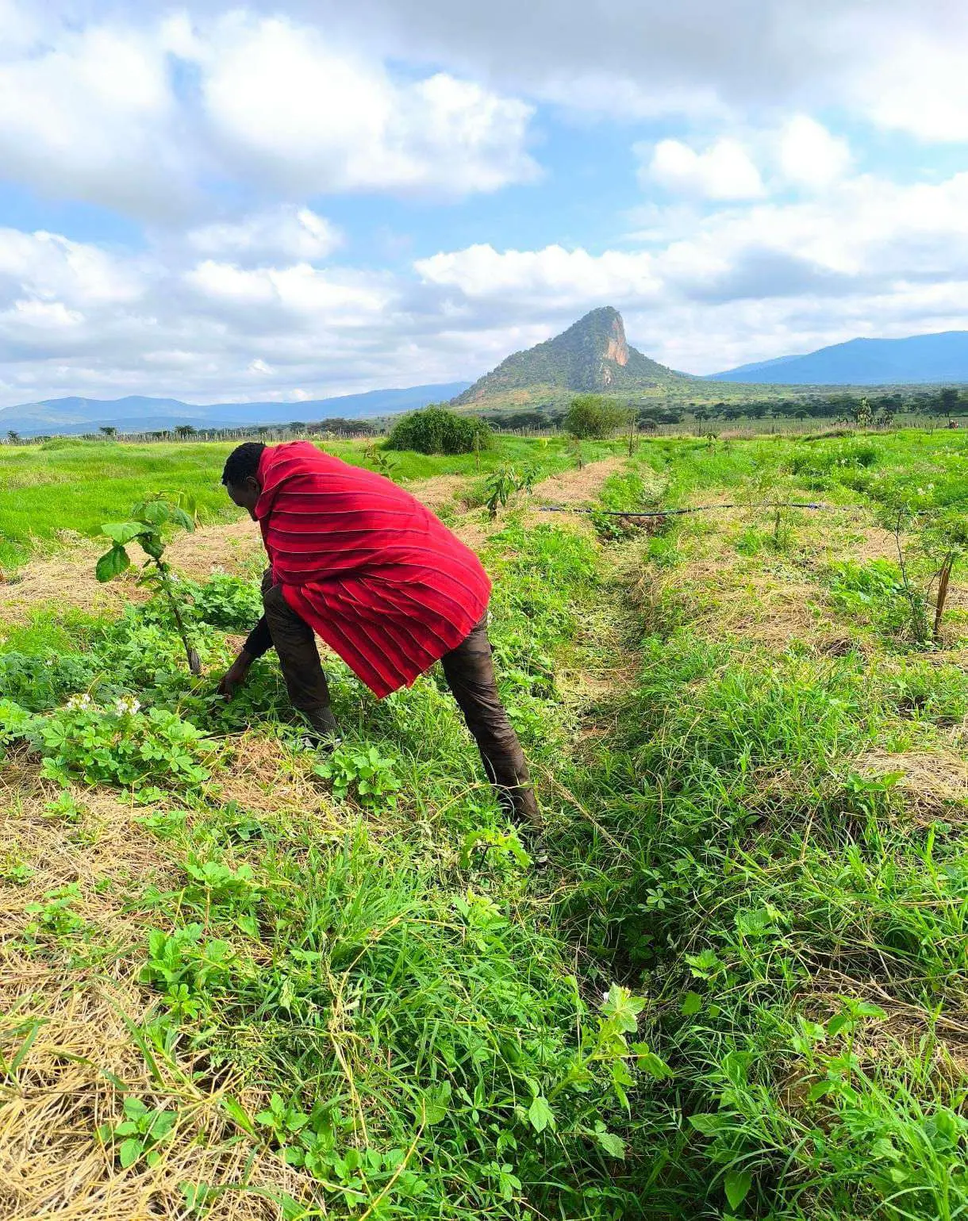
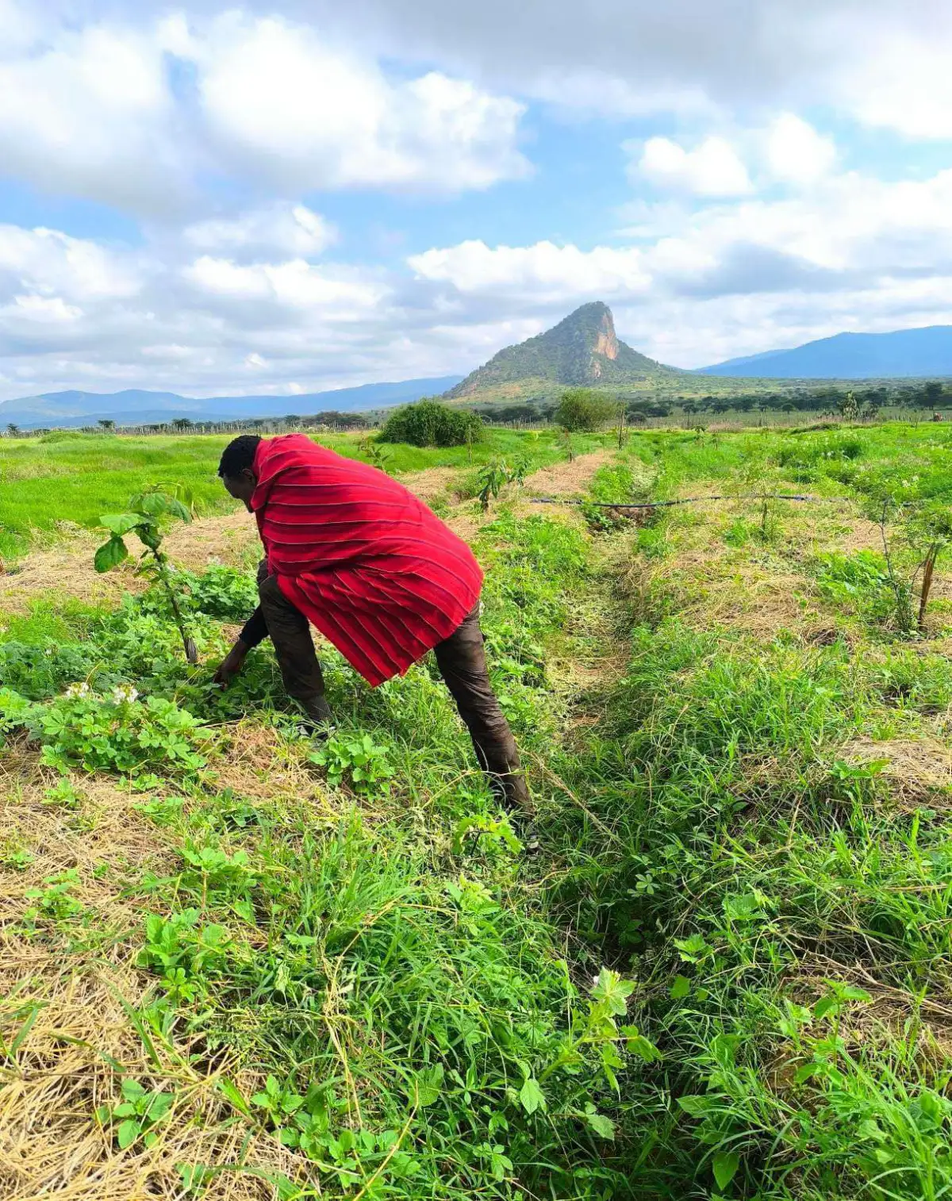
Reduce hero image size further

diff --git a/src/components/GallerySection.tsx b/src/components/GallerySection.tsx
@@ -2,18 +2,18 @@ import { useState } from "react";
 import { X, ChevronLeft, ChevronRight } from "lucide-react";
 
 const images = [
-  { src: "/images/community-planting.jpg", alt: "Community tree planting day", category: "Farm" },
-  { src: "/images/woman-planting.jpg", alt: "Samburu woman planting with traditional beadwork", category: "Women" },
-  { src: "/images/watermelon-harvest.jpg", alt: "Harvesting watermelon from the farm", category: "Farm" },
-  { src: "/images/citrus-tree.jpg", alt: "Citrus tree bearing fruit", category: "Farm" },
-  { src: "/images/tree-tomatoes.jpg", alt: "Tree tomatoes growing on the vine", category: "Farm" },
-  { src: "/images/moran-farming.jpg", alt: "Moran working the green farm", category: "Farm" },
-  { src: "/images/woman-watering.jpg", alt: "Woman watering crops with a watering can", category: "Women" },
-  { src: "/images/women-seedlings.jpg", alt: "Women carrying seedlings for planting", category: "Women" },
-  { src: "/images/seedlings-nursery.jpg", alt: "Tree seedlings in a nursery", category: "Farm" },
-  { src: "/images/solar-infrastructure.jpg", alt: "Solar panels powering farm infrastructure", category: "Transformation" },
-  { src: "/images/team-photo.jpg", alt: "Team members working on the farm", category: "Farm" },
-  { src: "/images/farm-fencing.jpg", alt: "Fenced farm area with growing crops", category: "Transformation" },
+  { src: "/images/community-planting.webp", alt: "Community tree planting day", category: "Farm" },
+  { src: "/images/woman-planting.webp", alt: "Samburu woman planting with traditional beadwork", category: "Women" },
+  { src: "/images/watermelon-harvest.webp", alt: "Harvesting watermelon from the farm", category: "Farm" },
+  { src: "/images/citrus-tree.webp", alt: "Citrus tree bearing fruit", category: "Farm" },
+  { src: "/images/tree-tomatoes.webp", alt: "Tree tomatoes growing on the vine", category: "Farm" },
+  { src: "/images/moran-farming.webp", alt: "Moran working the green farm", category: "Farm" },
+  { src: "/images/woman-watering.webp", alt: "Woman watering crops with a watering can", category: "Women" },
+  { src: "/images/women-seedlings.webp", alt: "Women carrying seedlings for planting", category: "Women" },
+  { src: "/images/seedlings-nursery.webp", alt: "Tree seedlings in a nursery", category: "Farm" },
+  { src: "/images/solar-infrastructure.webp", alt: "Solar panels powering farm infrastructure", category: "Transformation" },
+  { src: "/images/team-photo.webp", alt: "Team members working on the farm", category: "Farm" },
+  { src: "/images/farm-fencing.webp", alt: "Fenced farm area with growing crops", category: "Transformation" },
 ];
 
 const categories = ["All", "Farm", "Women", "Transformation"];

diff --git a/src/components/WhoWeAreSection.tsx b/src/components/WhoWeAreSection.tsx
@@ -13,25 +13,25 @@ export default function WhoWeAreSection() {
         >
           <div className="grid grid-cols-2 gap-3">
             <img
-              src="/images/community-planting.jpg"
+              src="/images/community-planting.webp"
               alt="Community members planting trees together"
               className="rounded-2xl object-cover w-full h-48 md:h-64"
               loading="lazy"
             />
             <img
-              src="/images/woman-planting.jpg"
+              src="/images/woman-planting.webp"
               alt="Samburu woman planting seedlings"
               className="rounded-2xl object-cover w-full h-48 md:h-64 mt-8"
               loading="lazy"
             />
             <img
-              src="/images/team-photo.jpg"
+              src="/images/team-photo.webp"
               alt="Youth team working the farm together"
               className="rounded-2xl object-cover w-full h-48 md:h-64"
               loading="lazy"
             />
             <img
-              src="/images/samburu-culture.jpg"
+              src="/images/samburu-culture.webp"
               alt="Samburu person in traditional beadwork"
               className="rounded-2xl object-cover w-full h-48 md:h-64 mt-8"
               loading="lazy"

diff --git a/src/components/SolutionSection.tsx b/src/components/SolutionSection.tsx
@@ -6,25 +6,25 @@ const pillars = [
     icon: Leaf,
     title: "Permaculture Farming",
     text: "Mimicking natural ecosystems to grow food with minimal water and zero chemical inputs.",
-    img: "/images/squash-plants.jpg",
+    img: "/images/squash-plants.webp",
   },
   {
     icon: TreePine,
     title: "Agroforestry",
     text: "Integrating nitrogen-fixing trees to restore soil health and provide sustainable fodder.",
-    img: "/images/seedlings-nursery.jpg",
+    img: "/images/seedlings-nursery.webp",
   },
   {
     icon: Warehouse,
     title: "Feedlot Livestock",
     text: "Moving from nomadic grazing to intensive, high-value livestock management systems.",
-    img: "/images/solar-infrastructure.jpg",
+    img: "/images/solar-infrastructure.webp",
   },
   {
     icon: Coins,
     title: "Youth & Women SACCO",
     text: "A community-owned financial vehicle providing credit and economic resilience to women entrepreneurs.",
-    img: "/images/women-seedlings.jpg",
+    img: "/images/women-seedlings.webp",
   },
 ];
 

diff --git a/src/components/BeforeAfterSection.tsx b/src/components/BeforeAfterSection.tsx
@@ -17,7 +17,7 @@ export default function BeforeAfterSection() {
         >
           <div className="relative rounded-3xl overflow-hidden">
             <img
-              src="/images/before-dry-land.jpg"
+              src="/images/before-dry-land.webp"
               alt="Before: dry arid land with women tilling soil"
               className="w-full h-64 md:h-96 object-cover"
               loading="lazy"
@@ -28,7 +28,7 @@ export default function BeforeAfterSection() {
           </div>
           <div className="relative rounded-3xl overflow-hidden">
             <img
-              src="/images/after-green-farm.jpg"
+              src="/images/after-green-farm.webp"
               alt="After: lush green vegetation and growing trees"
               className="w-full h-64 md:h-96 object-cover"
               loading="lazy"

diff --git a/src/components/HeroSection.tsx b/src/components/HeroSection.tsx
@@ -3,7 +3,7 @@ export default function HeroSection() {
     <section className="relative min-h-screen flex items-center justify-center overflow-hidden" aria-label="Hero">
       <div className="absolute inset-0 z-0">
         <img
-          src="/images/hero-moran.jpg"
+          src="/images/hero-moran.webp"
           alt="A Samburu Moran walking through green farmland towards the mountains"
           className="w-full h-full object-cover brightness-[0.4]"
           loading="eager"

diff --git a/src/components/WomenSection.tsx b/src/components/WomenSection.tsx
@@ -46,7 +46,7 @@ export default function WomenSection() {
           </div>
           <div className="relative">
             <img
-              src="/images/woman-planting.jpg"
+              src="/images/woman-planting.webp"
               alt="Samburu woman in traditional beadwork planting seedlings"
               className="rounded-3xl w-full h-80 md:h-[500px] object-cover"
               loading="lazy"

diff --git a/src/components/InvestSection.tsx b/src/components/InvestSection.tsx
@@ -55,7 +55,7 @@ export default function InvestSection() {
           </div>
         </div>
         <img
-          src="/images/moran-farming.jpg"
+          src="/images/moran-farming.webp"
           alt=""
           className="absolute right-0 bottom-0 w-1/2 h-full object-cover opacity-15 hidden lg:block"
           aria-hidden="true"
